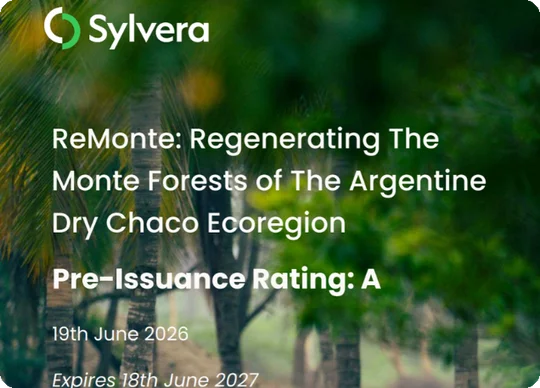
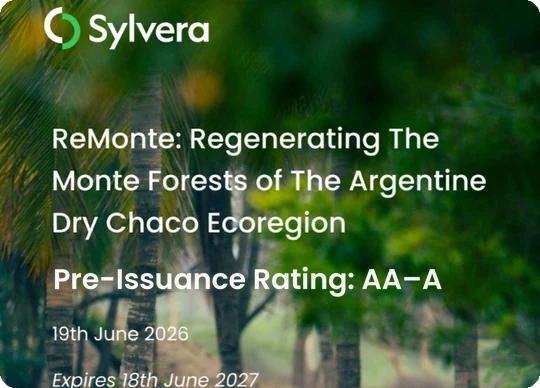
Sello de Sylvera de ReMonte actualizado (Pre-Issuance Rating: AA–A)
La imagen sale de la presentación de Climate Week NYC 2026; reemplaza a la que decía rating A.

Claude-Session: https://claude.ai/code/session_017HGZVTHFZg861219ehxRiC

Changed region(s): [[0.0889, 0.6804, 0.8296, 0.7732]]

diff --git a/LEEME.md b/LEEME.md
@@ -67,7 +67,7 @@ así que no dependen de Google Fonts. Se declaran al principio de styles.css (@f
 - "Qué es Coralia": equipo con base científica (opción A). Frase nueva debajo de Mitigar (insetting / offsetting).
 - Apps → plataformas en toda la web y en los 4 idiomas. "Climate Risk App" → "Climate Risk".
 - Sylvera: bloque "Alta integridad" y ReMonte con A–AA (bloque, página de Mitigar, etapa del pipeline y alt de la imagen).
-  Ojo: la imagen assets/marca/sylvera-remonte.webp todavía dice "Pre-Issuance Rating: A"; hay que reemplazarla.
+  El sello assets/marca/sylvera-remonte.webp ya es el nuevo ("Pre-Issuance Rating: AA–A"), sacado de la presentación de Climate Week NYC 2026.
 - Mitigar: cifra unificada en +13,2M y decimales con punto en inglés (10.1M, 2.8M, 1.5M).
 - "Cómo trabajamos" → "Trabajemos juntos" (EN Work with us): cuatro tarjetas (servicios, plataformas, socios, inversores).
   Los tres planes (Profesional, Análisis, Demo) quedan en el desplegable "Ver los planes" de la tarjeta de plataformas.
